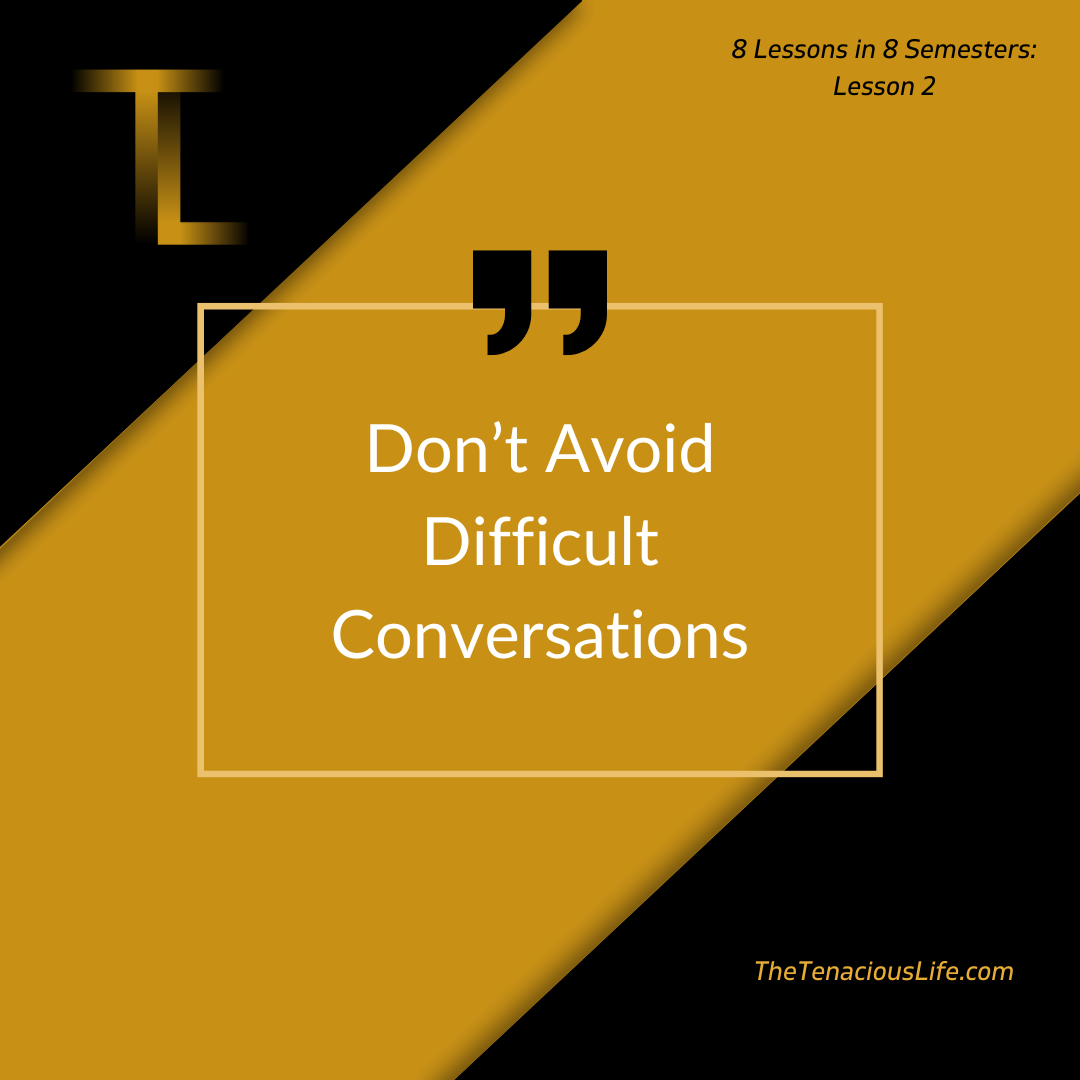
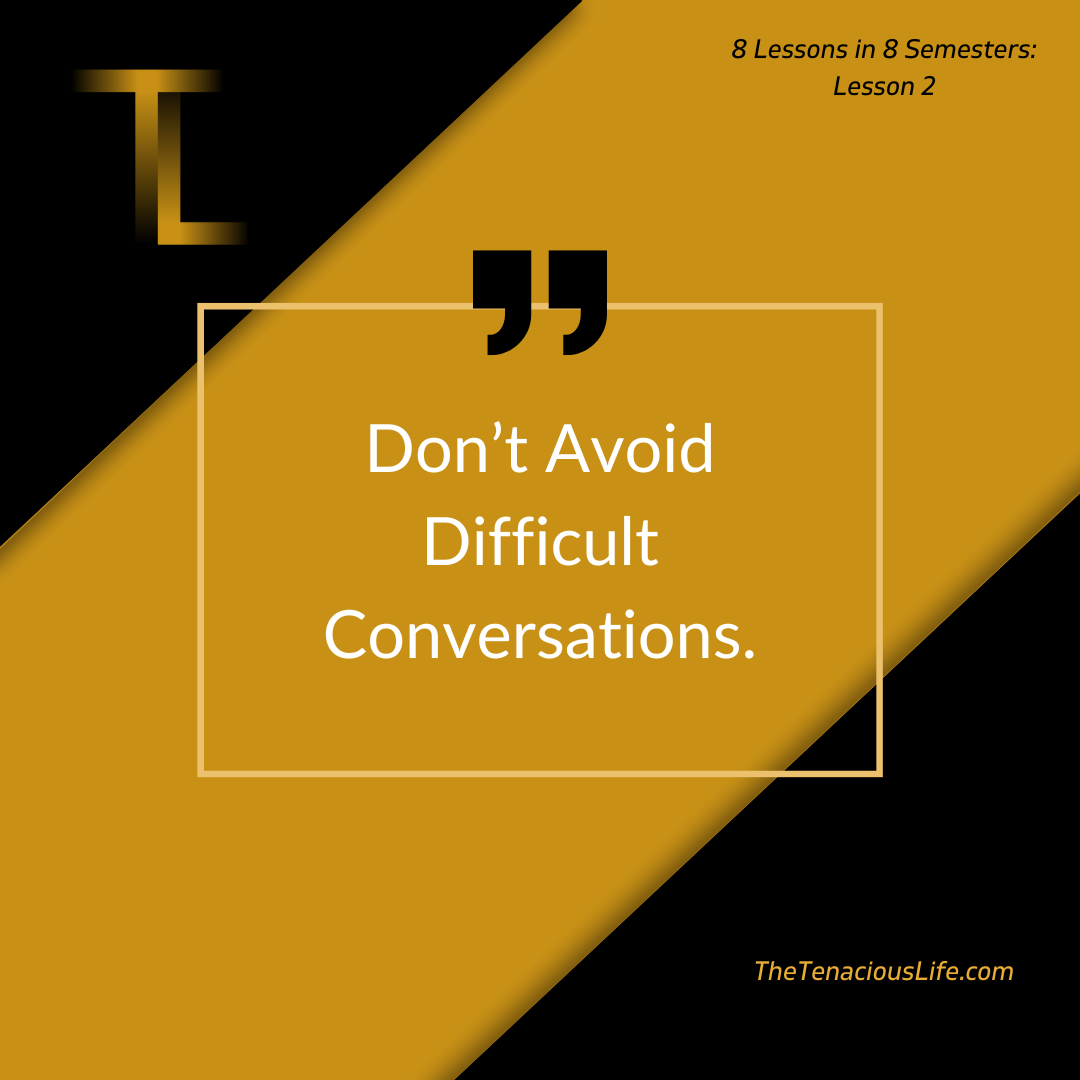
Built site for gh-pages

Changed region(s): [[0.3056, 0.55, 0.7028, 0.6111]]

diff --git a/posts/8l8s-l4/index.html b/posts/8l8s-l4/index.html
@@ -147,13 +147,27 @@ ul.task-list li input[type="checkbox"] {
 
 
 
-<p>When I was younger, a recurring phrase I often heard was, “Your college years are some of the best years of your life.” Me being me, I took this assertion quite seriously. If college was significantly valuable, I was determined to seize every opportunity it presented. I adopted an iterative approach, leveraging my experiences from past semesters alongside advice I received from others to inform my approach to each subsequent term.</p>
-<p>Upon reflection, I find this approach similar to a subsection of Artificial Intelligence called <a href="https://www.geeksforgeeks.org/what-is-reinforcement-learning/">Reinforcement Learning</a>, a concept ironically inspired by human learning. In this analogy, I acted as the Agent, navigating college life, which served as the Environment with each semester being each time step T. The beginning of each semester marked the State. My actions within each semester comprised the Action. The strategy I adopted each term became the Policy. How I felt at the term’s conclusion represented the Reward. Meanwhile, my expected emotional state, given a particular strategy within a semester, resembled the Value Function. My introspective process at the end of each semester mirrored the workings of a Learning Algorithm (my brain, I suppose).</p>
-<p>Similar to any reinforcement learning algorithm, I had to find a balance between exploration (trying new things) and exploitation (sticking with what I knew). Throughout the first three years, I struggled to find what was right for me. But, with some persistent experimentation and self-reflection, I managed to find my place. I learned one key lesson from each semester, culminating in eight lessons that I intend to share across eight blog posts over the next eight weeks (credit to <a href="https://djon.info/">Deborah</a> for that idea).</p>
-<p>Each year of my college experience revolved around a specific theme: Year 1 focused on <em>Relationships</em>, Year 2 delved into <em>Lifestyle</em>, Year 3 centred on <em>Career</em>, and Year 4 encapsulated <em>Growth</em>, bringing together aspects from the previous three years.</p>
-<p>My aspiration with these posts is that they are valuable. I hope that reading about the lessons I’ve learned from my life can help you in navigating yours. To support your self-reflection, I’ll share three introspective questions each week that I asked myself at the time of learning each lesson. By answering these questions honestly, you may uncover blind spots that have been holding you back in surprising ways.</p>
+<section id="to-make-big-improvements-focus-on-the-basics." class="level2">
+<h2 class="anchored" data-anchor-id="to-make-big-improvements-focus-on-the-basics.">To make big improvements, focus on the basics.</h2>
+<blockquote class="blockquote">
+<p>💡&nbsp; Have you ever tried to better yourself through elaborate or esoteric changes? <br> &nbsp;&nbsp;&nbsp;&nbsp;&nbsp;&nbsp;&nbsp;Were you satisfied with the outcome? <br> &nbsp;&nbsp;&nbsp;&nbsp;&nbsp;&nbsp;&nbsp;Have you managed to stick with those changes? <br></p>
+</blockquote>
+<p>This semester was pivotal. It was the final term before my grades factored into my final mark, and I was determined to be well-prepared. I wanted to avoid reaching my third year without a plan for improving my grades. I aimed to be ready, so I devised a plan: establish a sleep routine, study hard, train hard, and eat well.</p>
+<p>This plan didn’t work very well. It was hard to stick to. I was trying to improve everything all at once and as a result, I made an initial change but then quickly fell off. I felt tired during workouts, and my study sessions lacked productivity. I needed a better strategy. I hypothesised that making incremental habitual changes in sleep, exercise, nutrition, and study would collectively improve my overall grades. But I lacked the knowledge to implement these changes effectively and I needed help.</p>
+<p>Having followed a few online coaches for some years, I got a lot of value from their philosophy and practical guidance on training and life. Consequently, I reached out to a strength coach and a nutritionist, shared my goals and sought their guidance.</p>
+<p>Gradually, I introduced various changes. I tracked my sleep using an app, incorporated aids like a sleep mask and earplugs to ensure complete darkness and silence (two vital factors of sleep hygiene), put a wind-down routine in place between 9 pm and 10 pm to fall asleep faster, and began my morning with a walk.</p>
+<p>In terms of nutrition, I planned meals weekly, cooked in bulk, tracked calories, ate more fruit and veg, increased my protein intake and drank around 2.8 litres daily (~40ml per kg bodyweight). I practised mindful eating with chocolate several times a week to improve my relationship with food. I prioritised stopping when I felt full instead of bingeing food.</p>
+<p>On the exercise front, I structured two upper body, two lower body, and one full body mobility session weekly, and dedicated ten daily minutes to moving each joint.</p>
+<p>Regarding study, I planned each week, chose a distraction-free study space, and focused on one topic at a time for two-hour blocks, aiming for three sessions per day (occasionally adjusting to four or two blocks depending on how I felt).</p>
+<p>To unwind, I relaxed in the evenings with friends and made the most of the weekends by exploring different places around Dublin.</p>
+<p>Tackling two or three habits at a time over several weeks made the process less daunting. Seeking advice from my coaches when questions arose significantly eased the process and without them, I would have struggled to make the progress I did.</p>
+<p>With the changes in place, I felt great physically, mentally, and emotionally. Notably, my sleep and nutrition improved substantially, boosting my overall energy levels. My training progressed remarkably, and my study sessions became highly productive. Most importantly, my average grade saw a 9% increase, which at the time, meant everything!</p>
+<p>It became evident that improving any aspect of my life relied upon the basics. I hadn’t done anything crazy, I had simply adopted several small habit changes and sustained them over time.</p>
+<p>If you want to improve your life, focus on making small changes that produce great returns. Often, the most impactful changes are basic and are observed over the long term, such as consistent darkness for your sleep, daily movement for your body or intense focus for your work. The real challenge lies in consistency and discipline.</p>
+<p>Entering my third year, I felt ready, I had put in the work and it had paid off. While I maintained my class ranking, I believed I could do better. But you know what they say, “<em>Man plans, and God laughs.</em>” Join me next week to discover how my grand plan unfolded and whether I set the right goals in the first place.</p>
 
 
+</section>
 
 </main> <!-- /main -->
 <script id="quarto-html-after-body" type="application/javascript">

diff --git a/posts/8l8s-l6/index.html b/posts/8l8s-l6/index.html
@@ -147,13 +147,20 @@ ul.task-list li input[type="checkbox"] {
 
 
 
-<p>When I was younger, a recurring phrase I often heard was, “Your college years are some of the best years of your life.” Me being me, I took this assertion quite seriously. If college was significantly valuable, I was determined to seize every opportunity it presented. I adopted an iterative approach, leveraging my experiences from past semesters alongside advice I received from others to inform my approach to each subsequent term.</p>
-<p>Upon reflection, I find this approach similar to a subsection of Artificial Intelligence called <a href="https://www.geeksforgeeks.org/what-is-reinforcement-learning/">Reinforcement Learning</a>, a concept ironically inspired by human learning. In this analogy, I acted as the Agent, navigating college life, which served as the Environment with each semester being each time step T. The beginning of each semester marked the State. My actions within each semester comprised the Action. The strategy I adopted each term became the Policy. How I felt at the term’s conclusion represented the Reward. Meanwhile, my expected emotional state, given a particular strategy within a semester, resembled the Value Function. My introspective process at the end of each semester mirrored the workings of a Learning Algorithm (my brain, I suppose).</p>
-<p>Similar to any reinforcement learning algorithm, I had to find a balance between exploration (trying new things) and exploitation (sticking with what I knew). Throughout the first three years, I struggled to find what was right for me. But, with some persistent experimentation and self-reflection, I managed to find my place. I learned one key lesson from each semester, culminating in eight lessons that I intend to share across eight blog posts over the next eight weeks (credit to <a href="https://djon.info/">Deborah</a> for that idea).</p>
-<p>Each year of my college experience revolved around a specific theme: Year 1 focused on <em>Relationships</em>, Year 2 delved into <em>Lifestyle</em>, Year 3 centred on <em>Career</em>, and Year 4 encapsulated <em>Growth</em>, bringing together aspects from the previous three years.</p>
-<p>My aspiration with these posts is that they are valuable. I hope that reading about the lessons I’ve learned from my life can help you in navigating yours. To support your self-reflection, I’ll share three introspective questions each week that I asked myself at the time of learning each lesson. By answering these questions honestly, you may uncover blind spots that have been holding you back in surprising ways.</p>
+<section id="great-people-and-interesting-work-makes-a-job-much-easier." class="level2">
+<h2 class="anchored" data-anchor-id="great-people-and-interesting-work-makes-a-job-much-easier.">Great people and interesting work makes a job much easier.</h2>
+<blockquote class="blockquote">
+<p>💡&nbsp; What type of people do you work well with? <br> &nbsp;&nbsp;&nbsp;&nbsp;&nbsp;&nbsp;&nbsp;When pursuing your goals, do your expectations usually meet reality? <br> &nbsp;&nbsp;&nbsp;&nbsp;&nbsp;&nbsp;&nbsp;What are your career priorities and how do they impact your quality of life?</p>
+</blockquote>
+<p>INTRA (INtegrated TRAining) placement was a breath of fresh air after the events of the previous semester. I looked forward to intriguing work and being part of a team. However, I held concerns about the working environment. Growing up, media often depicted a bleak view of the professional world, featuring burnt-out employees, horrible bosses, and draining work, think of <em>Fight Club</em>, <em>Horrible Bosses</em>, or <em>Mad Men</em>.</p>
+<p>While I recognised these portrayals were exaggerated for effect, I worried about any underlying truths echoed by anecdotal evidence I had gathered over the years. I wondered, would my manager be a narcissistic, egomaniac!? Would the culture be so competitive and toxic that everyone saw each other as instruments to be used for their gain!? Would the work be so mind-numbing that I would wake up every morning before work thinking, <em>“Oh no, not again!”</em>?</p>
+<p>Fortunately, I had worked with the company in a previous internship and any concerns I had proved to be unfounded. People were collaborative rather than competitive. We worked together and helped each other out. I valued the office setting for the spontaneous discussions that wouldn’t have been possible remotely from home. During lunch, engaging conversations with the team ranged from personal experiences to ongoing projects. Post-work meet-ups always had a crowd making it easier to meet people and get to know them better. I had the autonomy to think of ideas and turn them into projects. I made the most of opportunities to present work and practice my public speaking skills.</p>
+<p>Management invested time into developing people on the team and shared their expertise without ego. They were humble and listened to the team’s feedback. The company, being a startup that lacked a large hierarchical structure, avoided office politics and popularity contests, at least from what I could observe. Though, through past experiences, I’ve realised that organisational politics is more about the leadership than it is about the company’s size.</p>
+<p>All in all, I realised my luck with where I worked. It’s possible that some workplaces may not be like this and that burnt-out employees, horrible bosses, and draining work may exist. Career priorities differ among people but across any public or private sector, any level of business ownership, I believe people and work are a constant and greatly impact your quality of life. Figuring out what people you work well with and what kind of work stimulates and challenges you meaningfully is worthwhile. While I was fortunate to find this in my initial internship, others might need more time. Ultimately, I believe answering these questions can shape your career’s impact on your life quality.</p>
+<p>Next week, I’ll delve into hobbies, relaxation, and the genuine value of college. After completing the placement, I returned to my final year with uncertainty around how I wanted to end my time at college—would I continue the pursuit of grades or consider an entirely new approach?</p>
 
 
+</section>
 
 </main> <!-- /main -->
 <script id="quarto-html-after-body" type="application/javascript">

diff --git a/posts/8l8s-l5/index.html b/posts/8l8s-l5/index.html
@@ -147,13 +147,22 @@ ul.task-list li input[type="checkbox"] {
 
 
 
-<p>When I was younger, a recurring phrase I often heard was, “Your college years are some of the best years of your life.” Me being me, I took this assertion quite seriously. If college was significantly valuable, I was determined to seize every opportunity it presented. I adopted an iterative approach, leveraging my experiences from past semesters alongside advice I received from others to inform my approach to each subsequent term.</p>
-<p>Upon reflection, I find this approach similar to a subsection of Artificial Intelligence called <a href="https://www.geeksforgeeks.org/what-is-reinforcement-learning/">Reinforcement Learning</a>, a concept ironically inspired by human learning. In this analogy, I acted as the Agent, navigating college life, which served as the Environment with each semester being each time step T. The beginning of each semester marked the State. My actions within each semester comprised the Action. The strategy I adopted each term became the Policy. How I felt at the term’s conclusion represented the Reward. Meanwhile, my expected emotional state, given a particular strategy within a semester, resembled the Value Function. My introspective process at the end of each semester mirrored the workings of a Learning Algorithm (my brain, I suppose).</p>
-<p>Similar to any reinforcement learning algorithm, I had to find a balance between exploration (trying new things) and exploitation (sticking with what I knew). Throughout the first three years, I struggled to find what was right for me. But, with some persistent experimentation and self-reflection, I managed to find my place. I learned one key lesson from each semester, culminating in eight lessons that I intend to share across eight blog posts over the next eight weeks (credit to <a href="https://djon.info/">Deborah</a> for that idea).</p>
-<p>Each year of my college experience revolved around a specific theme: Year 1 focused on <em>Relationships</em>, Year 2 delved into <em>Lifestyle</em>, Year 3 centred on <em>Career</em>, and Year 4 encapsulated <em>Growth</em>, bringing together aspects from the previous three years.</p>
-<p>My aspiration with these posts is that they are valuable. I hope that reading about the lessons I’ve learned from my life can help you in navigating yours. To support your self-reflection, I’ll share three introspective questions each week that I asked myself at the time of learning each lesson. By answering these questions honestly, you may uncover blind spots that have been holding you back in surprising ways.</p>
+<section id="manage-your-expectations-and-allow-yourself-to-make-mistakes." class="level2">
+<h2 class="anchored" data-anchor-id="manage-your-expectations-and-allow-yourself-to-make-mistakes.">Manage your expectations and allow yourself to make mistakes.</h2>
+<blockquote class="blockquote">
+<p>💡&nbsp; How often do you set goals for yourself? <br> &nbsp;&nbsp;&nbsp;&nbsp;&nbsp;&nbsp;&nbsp;When pursuing your goals, do your expectations usually meet reality? <br> &nbsp;&nbsp;&nbsp;&nbsp;&nbsp;&nbsp;&nbsp;How do you respond when your expectations do not meet reality?</p>
+</blockquote>
+<p>Entering my third year marked the beginning of the end. Now, my grades contributed toward my final mark, I felt the stakes were high. The previous semester saw my highest-grade achievement in college and I believed I could sustain that high performance - or so I thought.</p>
+<p>I started the semester applying the same strategy as before: previewing lecture materials, preparing questions in advance, and reinforcing my understanding post-lectures. My routines for training, diet, and sleep remained constant. Yet, something felt off.</p>
+<p>I had anticipated to have an even stronger drive this semester, but instead, it seemed dulled. Despite adhering to my routine, everything demanded a bit more effort than before. I wasn’t sure what was wrong, I thought I was doing everything right. I stuck to the plan for as long as I could but it became increasingly challenging. I felt a little off-kilter because this semester’s modules leaned more towards theory than practical application. My enthusiasm and motivation to study waned. I felt immense pressure to excel, and each mistake I made demanded greater effort to uphold my set standards. Falling short felt like failure.</p>
+<p>As pressure mounted, my performance didn’t improve. I became angry, frustrated, and disillusioned. The harsh contrast between my expectations and reality felt unfair. With grades now counting, I felt I was choking. The toughest part was accepting that I might not achieve the grades I wanted but that I should still give my best effort. I felt like one of the siblings in the short children’s story “<em>We’re Going On A Bear Hunt”,</em> as it goes <em>“We can’t go over it. We can’t go under it. We’ve got to go through it!”</em>.</p>
+<p>As the semester came to a close , I felt worn out. I couldn’t wait for it to end. The semester gone by saw my grade increase by 9% hitting its peak but now it saw a 13% drop, marking its lowest point. <em>“Pride comes before the fall”</em> echoed painfully. It felt like all the progress I had made was for nothing.</p>
+<p>I realised I had not managed my expectations properly due to my rigid and fragile approach. I had left no room for mistakes, and when they inevitably arose, I panicked, pressuring myself to claw my way back. This self-imposed pressure, coupled with the changed course content, soured my enthusiasm for the coursework and high grades.</p>
+<p>Fixating on outcomes over processes can create unrealistic expectations. Chasing perfection breeds negativity towards errors, which are crucial for learning and progress. Accepting this lesson proved to be the most agonising for me.</p>
+<p>I needed a break - time to gather myself and ponder plans for my final year. But there was no rush yet. It was time for a change of pace, a new environment, with interesting work, and great people. Follow along next week as I discuss my 9-month INTRA (INtegrated TRAining) work placement.</p>
 
 
+</section>
 
 </main> <!-- /main -->
 <script id="quarto-html-after-body" type="application/javascript">

diff --git a/index.html b/index.html
@@ -158,7 +158,7 @@ ul.task-list li input[type="checkbox"] {
 <!-- margin-sidebar -->
     <div id="quarto-margin-sidebar" class="sidebar margin-sidebar">
         
-    <h5 class="quarto-listing-category-title">Categories</h5><div class="quarto-listing-category category-default"><div class="category" data-category="">All <span class="quarto-category-count">(3)</span></div><div class="category" data-category="8 Lessons In 8 Semesters - A College Life Reflection">8 Lessons In 8 Semesters - A College Life Reflection <span class="quarto-category-count">(3)</span></div></div></div>
+    <h5 class="quarto-listing-category-title">Categories</h5><div class="quarto-listing-category category-default"><div class="category" data-category="">All <span class="quarto-category-count">(4)</span></div><div class="category" data-category="8 Lessons In 8 Semesters - A College Life Reflection">8 Lessons In 8 Semesters - A College Life Reflection <span class="quarto-category-count">(4)</span></div></div></div>
 <!-- main -->
 <main class="content quarto-banner-title-block column-page-left" id="quarto-document-content">
 
@@ -171,7 +171,42 @@ ul.task-list li input[type="checkbox"] {
 
 <div class="quarto-listing quarto-listing-container-default" id="listing-listing">
 <div class="list quarto-listing-default">
-<div class="quarto-post image-right" data-index="0" data-categories="8 Lessons In 8 Semesters - A College Life Reflection" data-listing-date-sort="1705881600000" data-listing-file-modified-sort="1706303927236" data-listing-date-modified-sort="NaN" data-listing-reading-time-sort="3">
+<div class="quarto-post image-right" data-index="0" data-categories="8 Lessons In 8 Semesters - A College Life Reflection" data-listing-date-sort="1706486400000" data-listing-file-modified-sort="1706516977685" data-listing-date-modified-sort="NaN" data-listing-reading-time-sort="3">
+<div class="thumbnail">
+<p><a href="./posts/8l8s-l3/index.html"> <img src="./posts/8l8s-l3/8L8S_Lesson_3.png" class="thumbnail-image"> </a></p>
+</div>
+<div class="body">
+<a href="./posts/8l8s-l3/index.html">
+<h3 class="no-anchor listing-title">
+8 Lessons In 8 Semesters: Lesson 3
+</h3>
+<div class="listing-subtitle">
+
+</div>
+</a>
+<div class="listing-categories">
+<div class="listing-category" onclick="window.quartoListingCategory('8 Lessons In 8 Semesters - A College Life Reflection'); return false;">
+8 Lessons In 8 Semesters - A College Life Reflection
+</div>
+</div>
+<a href="./posts/8l8s-l3/index.html">
+<div class="listing-description">
+💡&nbsp; What is your idea of fun? <br> &nbsp;&nbsp;&nbsp;&nbsp;&nbsp;&nbsp;&nbsp;Do you believe spending time having fun is important? <br> &nbsp;&nbsp;&nbsp;&nbsp;&nbsp;&nbsp;&nbsp;How much time do you spend having fun? <br>
+</div>
+</a>
+</div>
+<div class="metadata">
+<a href="./posts/8l8s-l3/index.html">
+<div class="listing-date">
+Jan 29, 2024
+</div>
+<div class="listing-author">
+Diarmuid Brady
+</div>
+</a>
+</div>
+</div>
+<div class="quarto-post image-right" data-index="1" data-categories="8 Lessons In 8 Semesters - A College Life Reflection" data-listing-date-sort="1705881600000" data-listing-file-modified-sort="1706432038210" data-listing-date-modified-sort="NaN" data-listing-reading-time-sort="3">
 <div class="thumbnail">
 <p><a href="./posts/8l8s-l2/index.html"> <img src="./posts/8l8s-l2/8L8S_Lesson_2.png" class="thumbnail-image"> </a></p>
 </div>
@@ -191,7 +226,7 @@ ul.task-list li input[type="checkbox"] {
 </div>
 <a href="./posts/8l8s-l2/index.html">
 <div class="listing-description">
-The conclusion of my first semester left me feeling hopeful about what my second semester might hold, yet I couldn’t have foreseen what followed. While I maintained my…
+💡&nbsp; Are you confrontational or conflict avoidant? <br> &nbsp;&nbsp;&nbsp;&nbsp;&nbsp;&nbsp;&nbsp;How has this trait changed for you over time? <br> &nbsp;&nbsp;&nbsp;&nbsp;&nbsp;&nbsp;&nbsp;How has this trait impacted your life? <br>
 </div>
 </a>
 </div>
@@ -206,7 +241,7 @@ Diarmuid Brady
 </a>
 </div>
 </div>
-<div class="quarto-post image-right" data-index="1" data-categories="8 Lessons In 8 Semesters - A College Life Reflection" data-listing-date-sort="1705276800000" data-listing-file-modified-sort="1706303430201" data-listing-date-modified-sort="NaN" data-listing-reading-time-sort="3">
+<div class="quarto-post image-right" data-index="2" data-categories="8 Lessons In 8 Semesters - A College Life Reflection" data-listing-date-sort="1705276800000" data-listing-file-modified-sort="1706431987074" data-listing-date-modified-sort="NaN" data-listing-reading-time-sort="3">
 <div class="thumbnail">
 <p><a href="./posts/8l8s-l1/index.html"> <img src="./posts/8l8s-l1/8L8S_Lesson_1.png" class="thumbnail-image"> </a></p>
 </div>
@@ -226,7 +261,7 @@ Diarmuid Brady
 </div>
 <a href="./posts/8l8s-l1/index.html">
 <div class="listing-description">
-My first year of college marked a stark contrast from my secondary school…
+💡&nbsp; What do you define as a shallow and a deep relationship? <br> &nbsp;&nbsp;&nbsp;&nbsp;&nbsp;&nbsp;&nbsp;How do you prioritise and maintain close relationships? <br> &nbsp;&nbsp;&nbsp;&nbsp;&nbsp;&nbsp;&nbsp;What is…<br>
 </div>
 </a>
 </div>
@@ -241,7 +276,7 @@ Diarmuid Brady
 </a>
 </div>
 </div>
-<div class="quarto-post image-right" data-index="2" data-categories="8 Lessons In 8 Semesters - A College Life Reflection" data-listing-date-sort="1704672000000" data-listing-file-modified-sort="1706303245841" data-listing-date-modified-sort="NaN" data-listing-reading-time-sort="2">
+<div class="quarto-post image-right" data-index="3" data-categories="8 Lessons In 8 Semesters - A College Life Reflection" data-listing-date-sort="1704672000000" data-listing-file-modified-sort="1706303245841" data-listing-date-modified-sort="NaN" data-listing-reading-time-sort="2">
 <div class="thumbnail">
 <p><a href="./posts/8l8s-intro/index.html"> <img src="./posts/8l8s-intro/8L8S_Intro.png" class="thumbnail-image"> </a></p>
 </div>

diff --git a/posts/8l8s-l3/index.html b/posts/8l8s-l3/index.html
@@ -147,23 +147,19 @@ ul.task-list li input[type="checkbox"] {
 
 
 
-<section id="lesson-3-dont-chase-other-peoples-idea-of-fun" class="level2">
-<h2 class="anchored" data-anchor-id="lesson-3-dont-chase-other-peoples-idea-of-fun">Lesson 3: Don’t chase other people’s idea of fun</h2>
+<section id="dont-chase-other-peoples-idea-of-fun." class="level2">
+<h2 class="anchored" data-anchor-id="dont-chase-other-peoples-idea-of-fun.">Don’t chase other people’s idea of fun.</h2>
 <blockquote class="blockquote">
-<ol type="1">
-<li>What is your idea of fun? <br></li>
-<li>How much time do you spend having fun? <br></li>
-<li>Do you believe spending time having fun is important? <br></li>
-</ol>
+<p>💡&nbsp; What is your idea of fun? <br> &nbsp;&nbsp;&nbsp;&nbsp;&nbsp;&nbsp;&nbsp;Do you believe spending time having fun is important? <br> &nbsp;&nbsp;&nbsp;&nbsp;&nbsp;&nbsp;&nbsp;How much time do you spend having fun? <br></p>
 </blockquote>
-<p>I kicked off my second year with one goal in mind—to have as much fun as I possibly could. Reflecting on my first year, it dawned on me that I’d dedicated an awful lot of time to studying. I worried that my future self might regret not having indulged in the “<em>full college experience</em>.” At the time, I believed university fun mainly revolved around drinking and partying. So, naturally, I figured if I wanted to have more fun, I should drink and party more while leaving hard stuff like studying, working out, and meal prep to the waist side. And that’s precisely what I did. I found myself attending regular house parties and drinking.</p>
-<p>Over time, I started feeling a sense of freedom, thinking I was finally “letting loose” and truly living “the college life.” But then came a turning point. One night, running late for a party, I decided to “catch up”. So, I downed a shoulder of vodka and pure orange and pineapple mi-wadi over two hours. Due to a system memory corruption error, I’m unable to give specific details of what occurred, nor would I want to. The main thing is the following day was the worst I had ever felt physically. I didn’t attend lectures and just lay in bed feeling miserable and sorry for myself.</p>
+<p>I kicked off my second year with one goal in mind—to have as much fun as I possibly could. Reflecting on my first year, it dawned on me that I’d dedicated an awful lot of time to studying. I worried that my future self might regret not having indulged in the “<em>full college experience</em>.” At the time, I believed university fun mainly revolved around drinking and partying. So, naturally, I figured if I wanted to have more fun, I should drink and party more while leaving hard stuff like studying, working out, and meal prep to the waist side. And that’s exactly what I did. I found myself attending regular house parties and drinking.</p>
+<p>Over time, I started feeling a sense of freedom, thinking I was finally “letting loose” and truly getting “<em>the full college experience</em>.” But then came a turning point. One night, running late for a party, I decided to “catch up”. So, I downed a shoulder of vodka and pure orange and pineapple mi-wadi. Due to a system memory corruption error, I’m unable to give specific details of what occurred after, nor would I want to. The main thing is the following day was the worst I had ever felt physically. I didn’t attend lectures and just lay in bed feeling miserable and sorry for myself.</p>
 <p>Following that episode, I reflected on the past few weeks and had a real wake-up call. My new lifestyle left me feeling more drained, anxious, irritable, unfocused, and scattered than ever before. My workouts stagnated, and my academic work suffered. So, I asked myself:</p>
 <blockquote class="blockquote">
-<p>Diarmuid, I don’t like this. I feel like shit. Why are we doing it?</p>
+<p>Diarmuid, I don’t like this. I feel like shit. Why am I doing it?</p>
 </blockquote>
 <blockquote class="blockquote">
-<p>Because this is fun. It might be a little difficult, but this is fun, right?</p>
+<p>Because this is fun. It might be difficult, but this is fun, right?</p>
 </blockquote>
 <p>No.&nbsp;No, it was not. I was chasing what I thought others found fun, trying to fit into their idea of a good time. But truth be told, this wasn’t fun for me. What I truly enjoyed was getting up early (7 am), diving into study and programming, going to the gym or rock climbing, cooking proper meals, hanging out with friends and family, watching movies and TV series, reading, listening to music, exploring new places, and going to bed early (10 pm).</p>
 <p>Be careful not to conflate other people’s idea of fun as what you find fun. When you’re in the middle of what’s supposed to be a great time, take a mental note of how much you’re genuinely enjoying it. Separate the hype from your experience.</p>

diff --git a/posts/8l8s-l7/index.html b/posts/8l8s-l7/index.html
@@ -111,7 +111,7 @@ ul.task-list li input[type="checkbox"] {
     <div class="quarto-title column-body">
       <h1 class="title">8 Lessons In 8 Semesters: Lesson 7</h1>
                                 <div class="quarto-categories">
-                <div class="quarto-category">8 Lessons In Semesters - A College Life Reflection</div>
+                <div class="quarto-category">8 Lessons In 8 Semesters - A College Life Reflection</div>
               </div>
                   </div>
   </div>
@@ -147,13 +147,11 @@ ul.task-list li input[type="checkbox"] {
 
 
 
-<p>When I was younger, a recurring phrase I often heard was, “Your college years are some of the best years of your life.” Me being me, I took this assertion quite seriously. If college was significantly valuable, I was determined to seize every opportunity it presented. I adopted an iterative approach, leveraging my experiences from past semesters alongside advice I received from others to inform my approach to each subsequent term.</p>
-<p>Upon reflection, I find this approach similar to a subsection of Artificial Intelligence called <a href="https://www.geeksforgeeks.org/what-is-reinforcement-learning/">Reinforcement Learning</a>, a concept ironically inspired by human learning. In this analogy, I acted as the Agent, navigating college life, which served as the Environment with each semester being each time step T. The beginning of each semester marked the State. My actions within each semester comprised the Action. The strategy I adopted each term became the Policy. How I felt at the term’s conclusion represented the Reward. Meanwhile, my expected emotional state, given a particular strategy within a semester, resembled the Value Function. My introspective process at the end of each semester mirrored the workings of a Learning Algorithm (my brain, I suppose).</p>
-<p>Similar to any reinforcement learning algorithm, I had to find a balance between exploration (trying new things) and exploitation (sticking with what I knew). Throughout the first three years, I struggled to find what was right for me. But, with some persistent experimentation and self-reflection, I managed to find my place. I learned one key lesson from each semester, culminating in eight lessons that I intend to share across eight blog posts over the next eight weeks (credit to <a href="https://djon.info/">Deborah</a> for that idea).</p>
-<p>Each year of my college experience revolved around a specific theme: Year 1 focused on <em>Relationships</em>, Year 2 delved into <em>Lifestyle</em>, Year 3 centred on <em>Career</em>, and Year 4 encapsulated <em>Growth</em>, bringing together aspects from the previous three years.</p>
-<p>My aspiration with these posts is that they are valuable. I hope that reading about the lessons I’ve learned from my life can help you in navigating yours. To support your self-reflection, I’ll share three introspective questions each week that I asked myself at the time of learning each lesson. By answering these questions honestly, you may uncover blind spots that have been holding you back in surprising ways.</p>
+<section id="fill-your-spare-time-with-fun-social-activities-that-benefit-your-future-self." class="level2">
+<h2 class="anchored" data-anchor-id="fill-your-spare-time-with-fun-social-activities-that-benefit-your-future-self.">Fill your spare time with fun, social activities that benefit your future self.</h2>
 
 
+</section>
 
 </main> <!-- /main -->
 <script id="quarto-html-after-body" type="application/javascript">

diff --git a/posts/8l8s-l2/index.html b/posts/8l8s-l2/index.html
@@ -147,14 +147,10 @@ ul.task-list li input[type="checkbox"] {
 
 
 
-<section id="lesson-2-dont-avoid-difficult-conversations" class="level2">
-<h2 class="anchored" data-anchor-id="lesson-2-dont-avoid-difficult-conversations">Lesson 2: Don’t avoid difficult conversations</h2>
+<section id="dont-avoid-difficult-conversations." class="level2">
+<h2 class="anchored" data-anchor-id="dont-avoid-difficult-conversations.">Don’t avoid difficult conversations.</h2>
 <blockquote class="blockquote">
-<ol type="1">
-<li>Are you confrontational or conflict avoidant? <br></li>
-<li>How has this trait changed for you over time? <br></li>
-<li>How has this trait impacted your life? <br></li>
-</ol>
+<p>💡&nbsp; Are you confrontational or conflict avoidant? <br> &nbsp;&nbsp;&nbsp;&nbsp;&nbsp;&nbsp;&nbsp;How has this trait changed for you over time? <br> &nbsp;&nbsp;&nbsp;&nbsp;&nbsp;&nbsp;&nbsp;How has this trait impacted your life? <br></p>
 </blockquote>
 <p>The conclusion of my first semester left me feeling hopeful about what my second semester might hold, yet I couldn’t have foreseen what followed. While I maintained my academic performance, I also aimed to prioritise spending time with friends I had made during the first semester. I didn’t want to experience that sense of being stuck in the middle again. However, two significant events disrupted my plans. Firstly, the COVID-19 lockdown hit, scattering everyone. Secondly, and of greater importance, I made a mistake I regret to this day.</p>
 <p>From the prior semester, I had a friend whose company I enjoyed, but in hindsight, I wish I had spent more time with them. Unfortunately, I began hearing unfavourable things about them. Upon receiving this information, I felt conflicted. I felt guilty for knowing this gossip, which clashed with my distaste for it. Nonetheless, it led me to question the future of our friendship, causing a frenzy of overwhelming and anxious thoughts. It was a situation I hadn’t encountered before-a dilemma where I had information that might affect me, yet simultaneously felt it wasn’t my place to know in the first instance.</p>

diff --git a/posts/8l8s-l1/index.html b/posts/8l8s-l1/index.html
@@ -147,14 +147,10 @@ ul.task-list li input[type="checkbox"] {
 
 
 
-<section id="lesson-1-no-amount-of-friendly-people-can-replace-a-few-close-friends" class="level2">
-<h2 class="anchored" data-anchor-id="lesson-1-no-amount-of-friendly-people-can-replace-a-few-close-friends">Lesson 1: No amount of friendly people can replace a few close friends</h2>
+<section id="no-amount-of-friendly-people-can-replace-a-few-close-friends." class="level2">
+<h2 class="anchored" data-anchor-id="no-amount-of-friendly-people-can-replace-a-few-close-friends.">No amount of friendly people can replace a few close friends.</h2>
 <blockquote class="blockquote">
-<ol type="1">
-<li>What do you define as a shallow and a deep relationship? <br></li>
-<li>How do you prioritise and maintain close relationships? <br></li>
-<li>What is your experience with shallow and deep relationships? <br></li>
-</ol>
+<p>💡&nbsp; What do you define as a shallow and a deep relationship? <br> &nbsp;&nbsp;&nbsp;&nbsp;&nbsp;&nbsp;&nbsp;How do you prioritise and maintain close relationships? <br> &nbsp;&nbsp;&nbsp;&nbsp;&nbsp;&nbsp;&nbsp;What is your experience with shallow and deep relationships? <br></p>
 </blockquote>
 <p>My first year of college marked a stark contrast from my secondary school Leaving Certificate year. In secondary school, I often spent considerable time alone. Yet, in college, it was a whirlwind of meeting people—everywhere I turned, someone new awaited.</p>
 <p>Whether in campus accommodation, clubs, societies, house parties, or during nights out, the initial semester revolved around encountering fresh faces nearly every day. Living in campus accommodation made chance encounters common, sparking conversations about our settling-in experiences, activities, or which nights we planned to venture into Dublin City Centre.</p>
